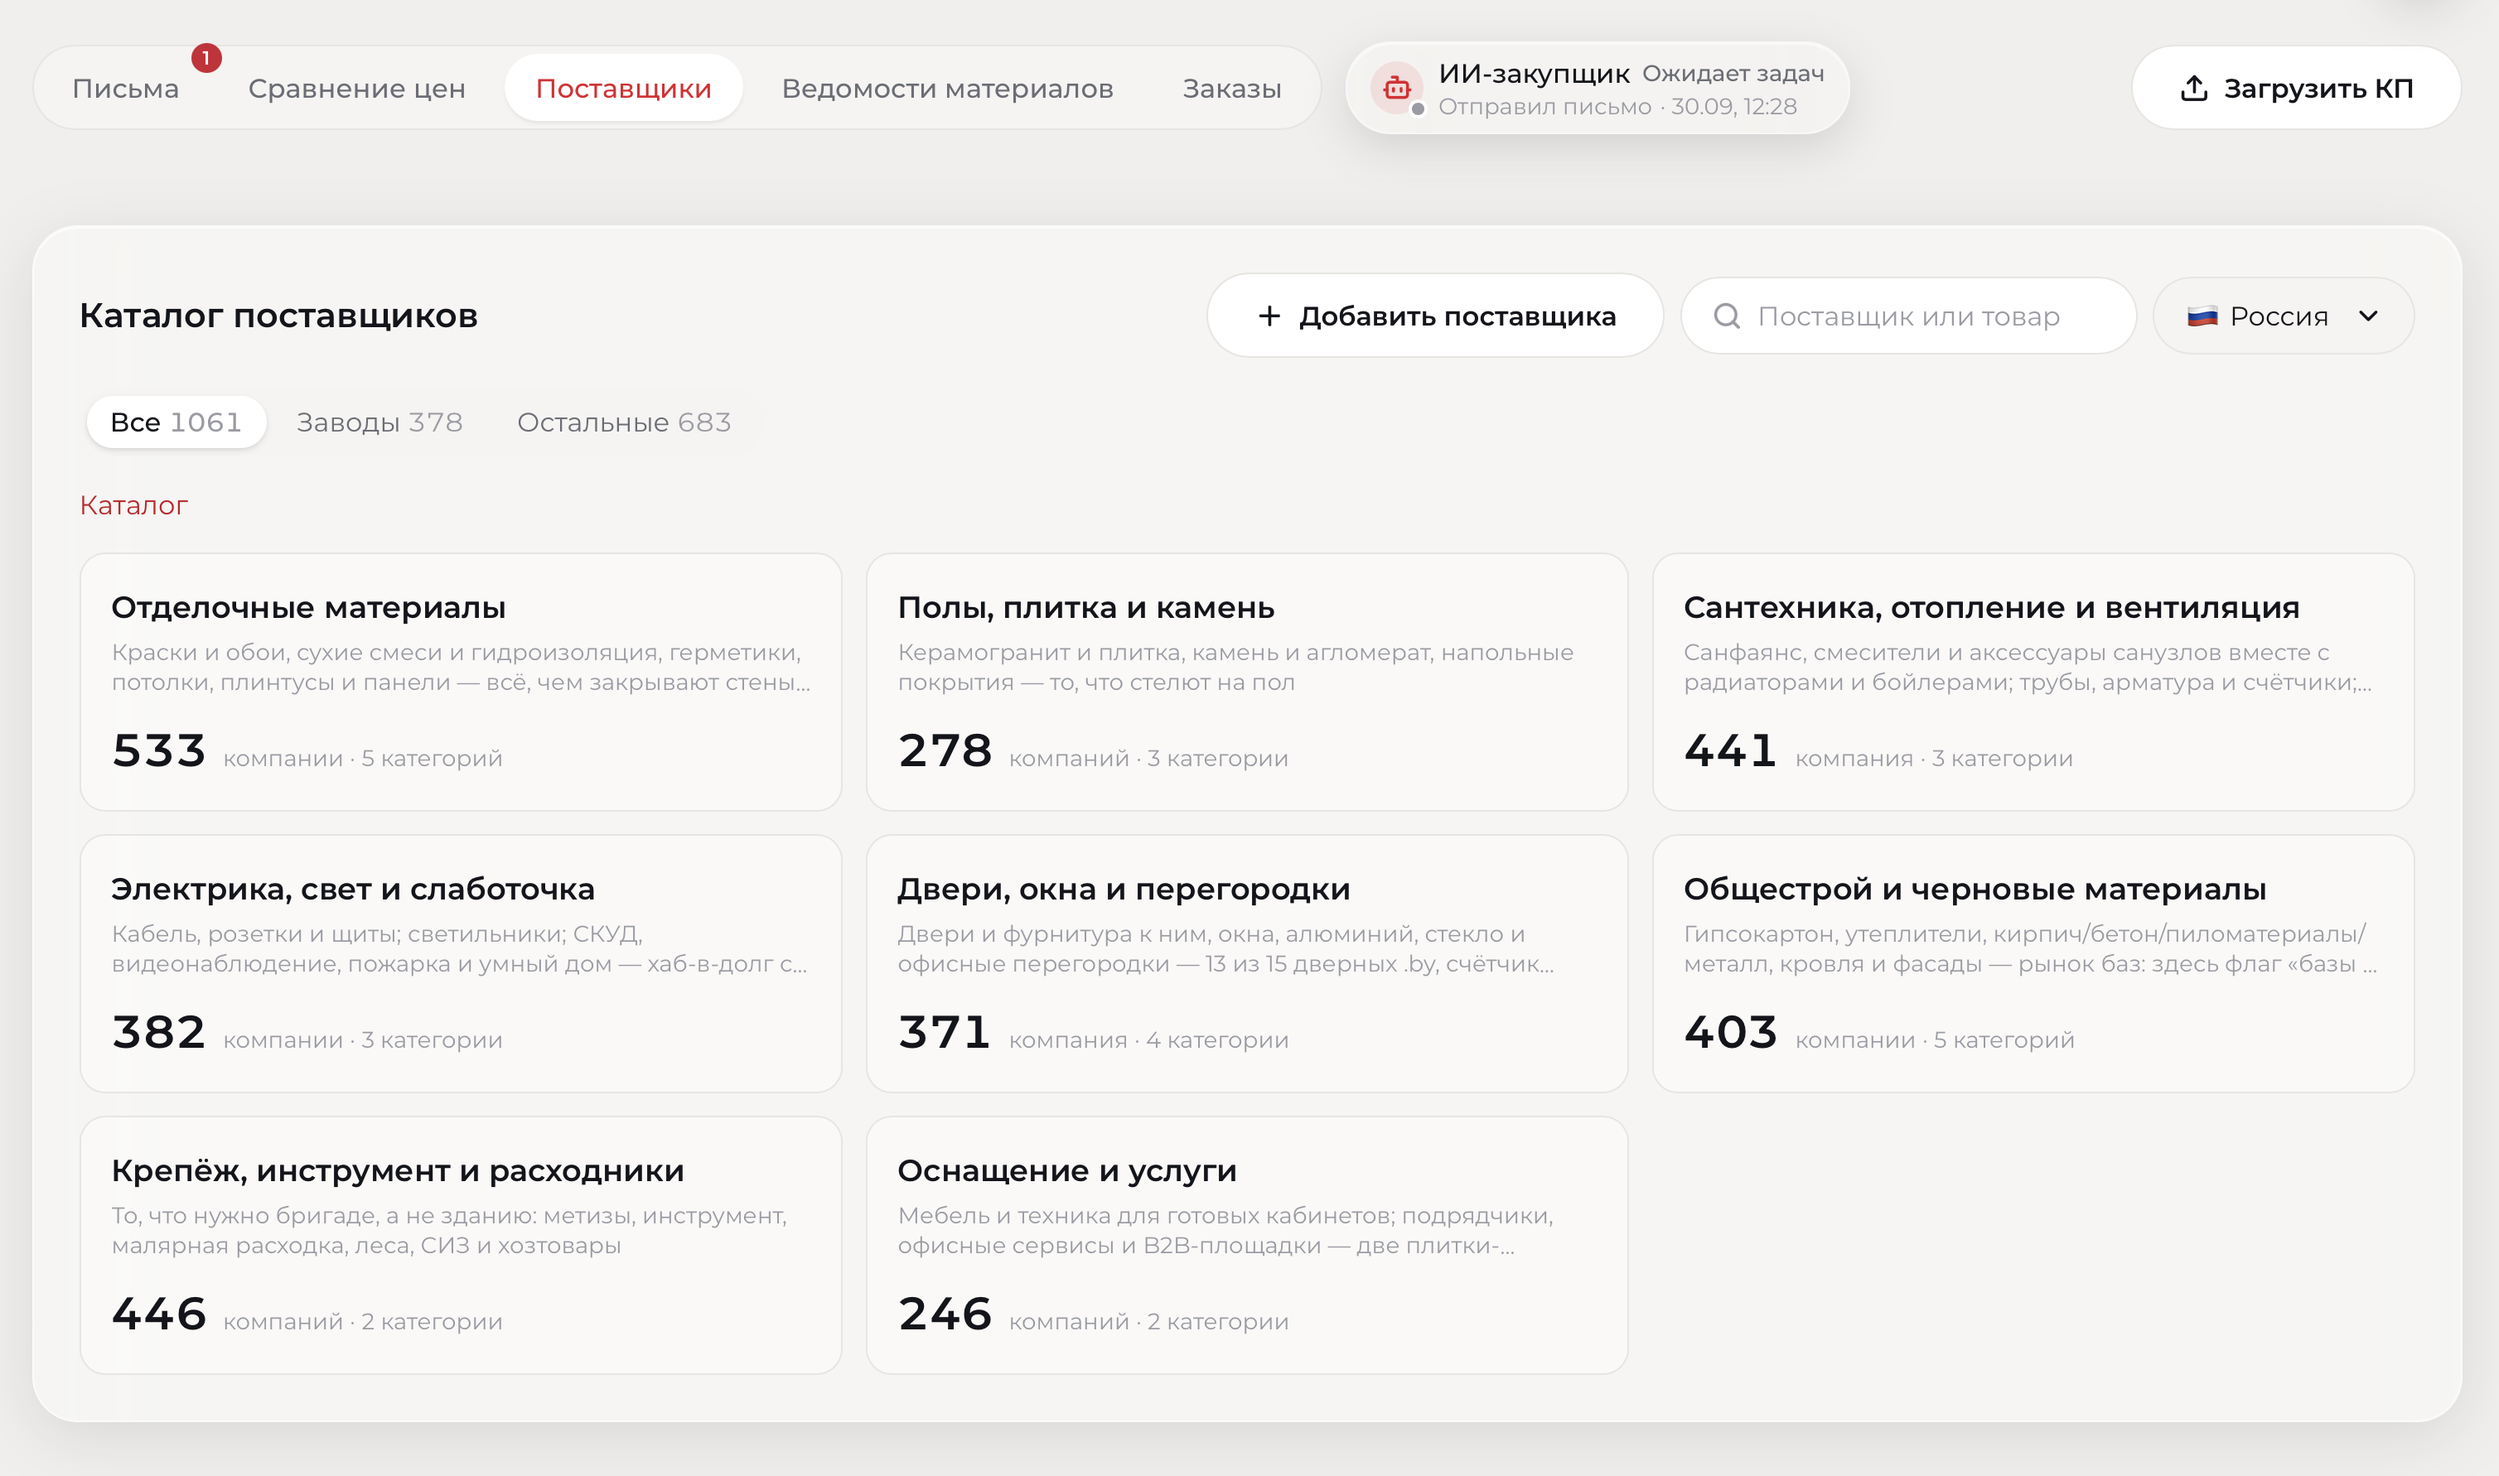
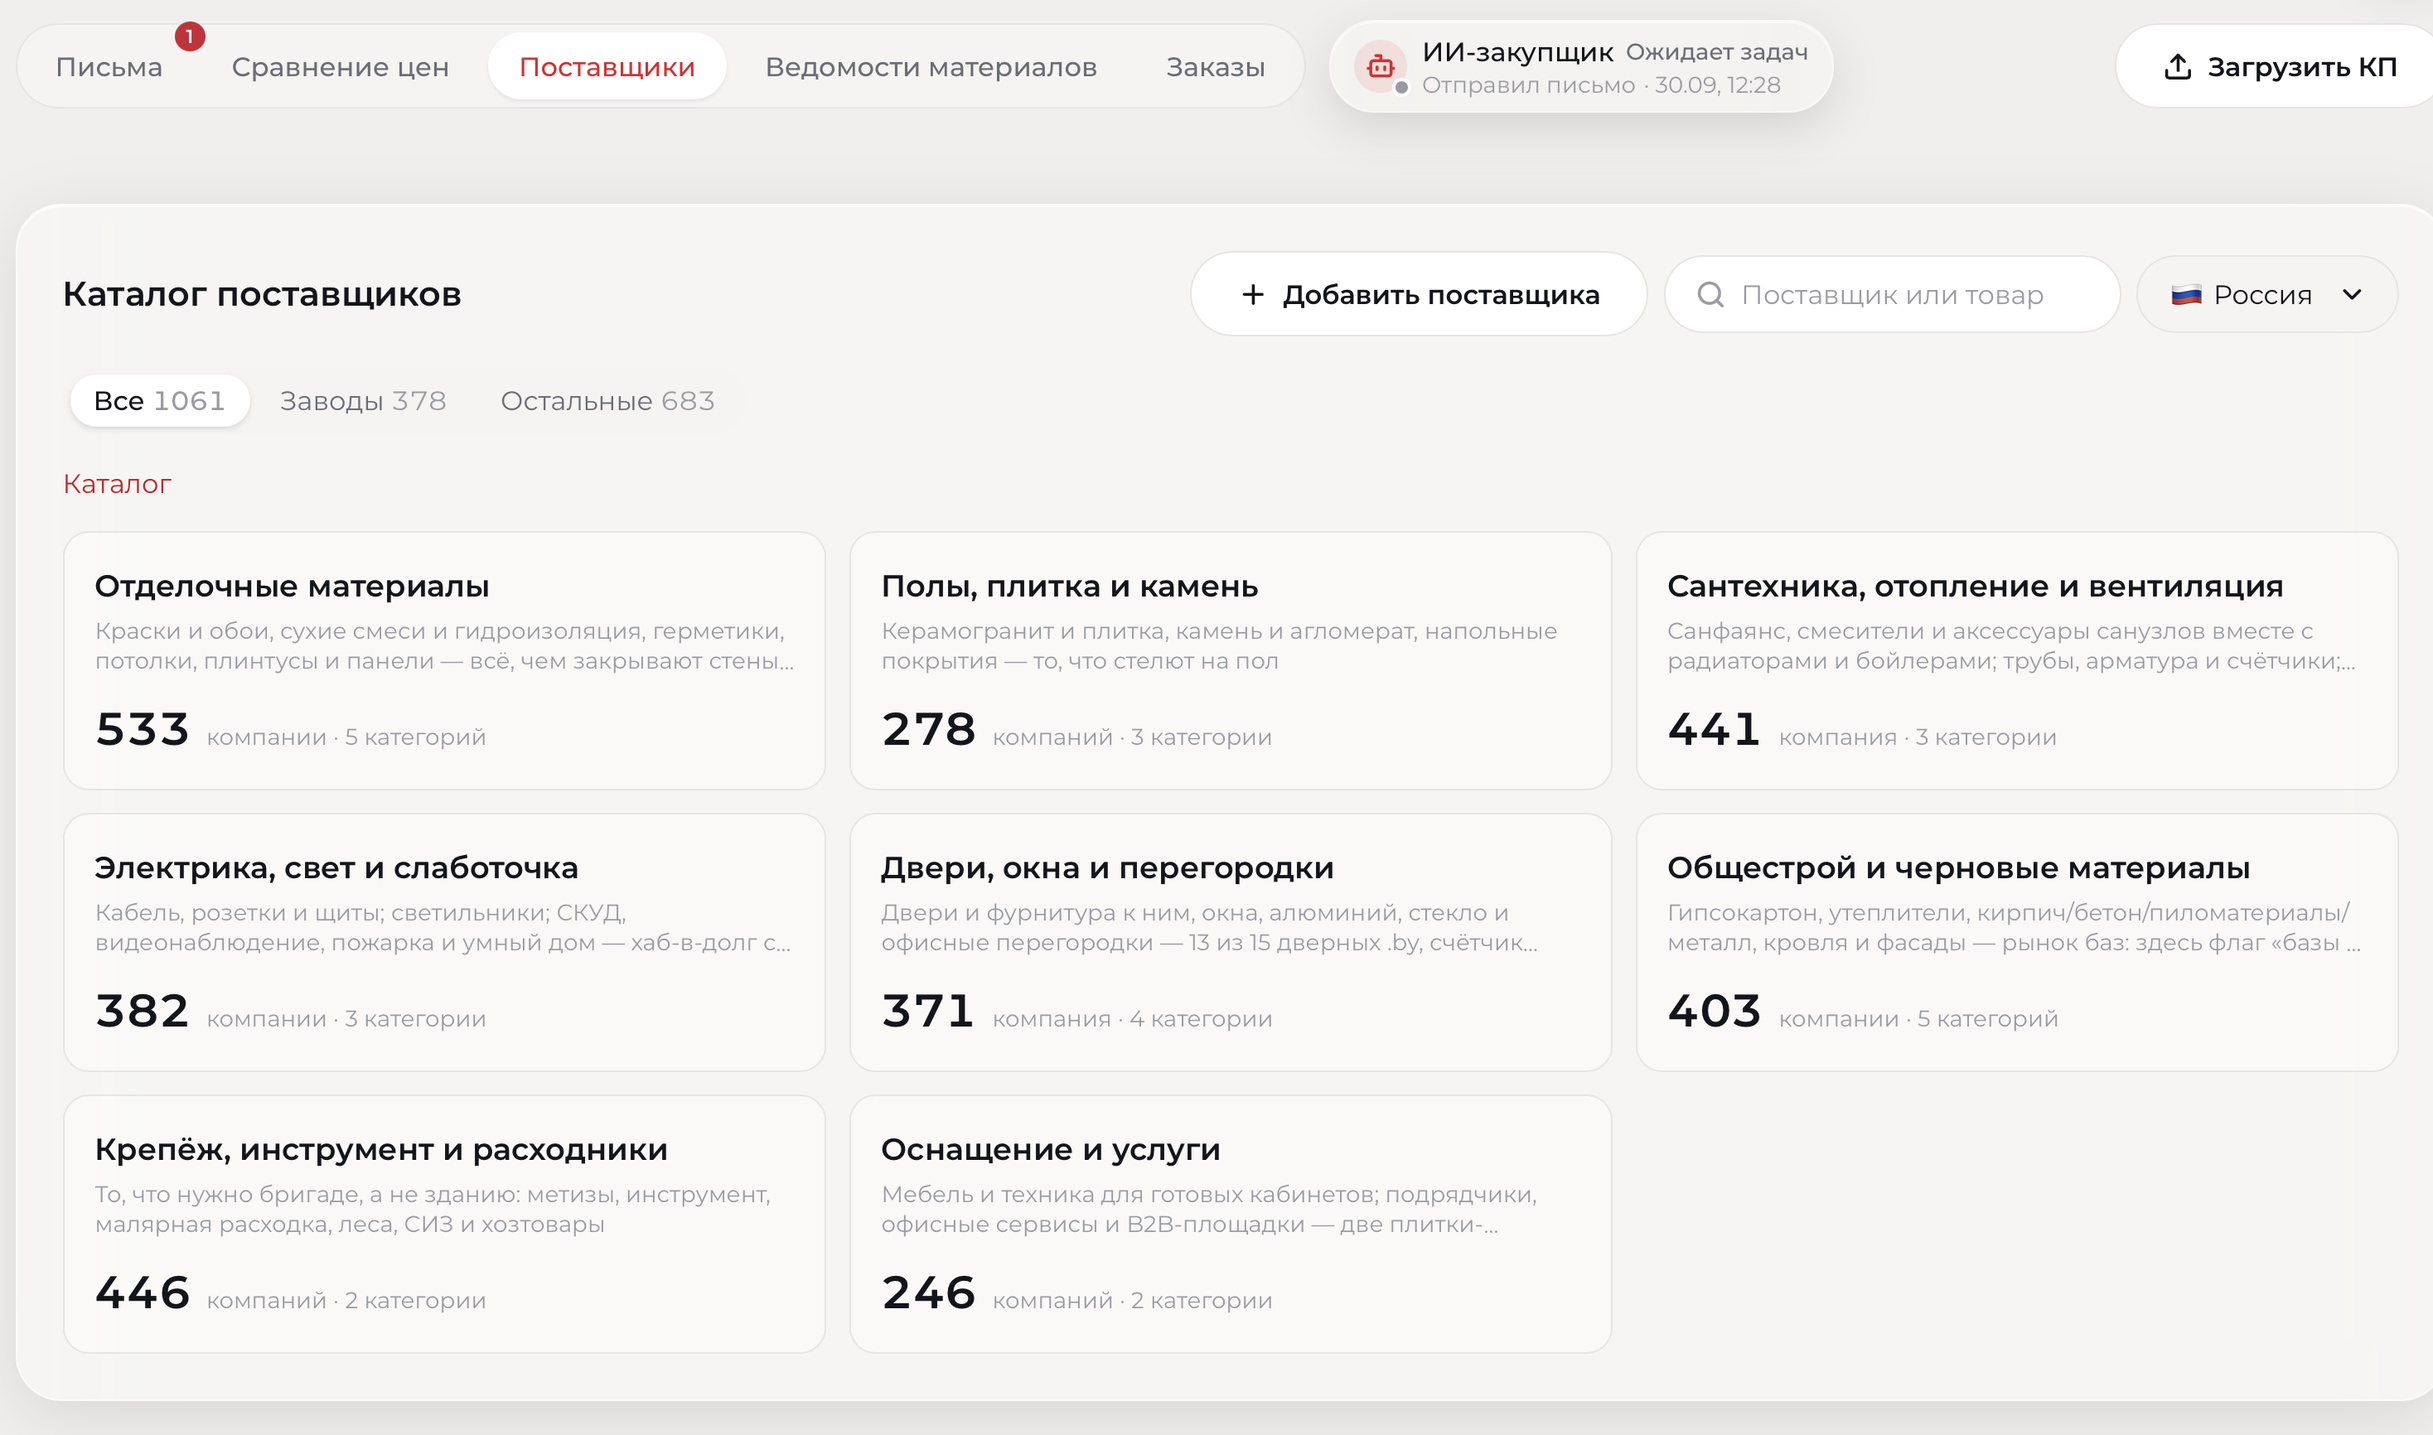
docs: обложка презы — полный скрин, без карточек и домена
Скрин каталога без обрезки (object-fit: contain), убраны блоки
плюсов и ссылка redevelopment.pro в футере.

diff --git a/docs/procurement-module-presentation.html b/docs/procurement-module-presentation.html
@@ -173,12 +173,12 @@
     }
 
     .cover h1 {
-      font-size: 28px;
+      font-size: 32px;
       max-width: none;
       font-weight: 700;
       letter-spacing: -0.02em;
       line-height: 1.15;
-      margin-bottom: 4mm;
+      margin-bottom: 6mm;
     }
 
     .cover .lede {
@@ -191,20 +191,20 @@
 
     .cover-bullets {
       list-style: none;
-      margin: 0 0 5.5mm;
+      margin: 0 0 6mm;
       padding: 0;
       max-width: 118mm;
       display: flex;
       flex-direction: column;
-      gap: 2.2mm;
+      gap: 3mm;
     }
 
     .cover-bullets li {
       position: relative;
-      padding-left: 5mm;
-      font-size: 12.5px;
+      padding-left: 5.5mm;
+      font-size: 13.5px;
       font-weight: 500;
-      line-height: 1.4;
+      line-height: 1.45;
       color: var(--ink);
     }
 
@@ -224,49 +224,19 @@
     }
 
     .cover-ai-note {
-      margin: -2mm 0 5mm;
+      margin: 0;
       max-width: 118mm;
-      font-size: 12px;
+      font-size: 13px;
       font-weight: 600;
       color: var(--ink-muted);
     }
 
     .cover-main {
       display: grid;
-      grid-template-columns: 1fr 1.05fr;
-      gap: 9mm;
-      align-items: stretch;
+      grid-template-columns: 0.92fr 1.18fr;
+      gap: 8mm;
+      align-items: center;
       min-height: 0;
-    }
-
-    .plus-stack {
-      display: flex;
-      flex-direction: column;
-      gap: 3mm;
-    }
-
-    .plus {
-      background: rgba(255, 255, 255, 0.78);
-      border: 1px solid rgba(255, 255, 255, 0.9);
-      border-radius: 14px;
-      padding: 3.5mm 5mm;
-      box-shadow: 0 8px 24px rgba(20, 21, 26, 0.05), inset 0 1px 0 rgba(255, 255, 255, 0.8);
-    }
-
-    .plus .title {
-      font-size: 15px;
-      font-weight: 700;
-      letter-spacing: -0.015em;
-      line-height: 1.25;
-      margin: 0 0 1mm;
-    }
-
-    .plus .hint {
-      margin: 0;
-      font-size: 12px;
-      color: var(--ink-muted);
-      font-weight: 500;
-      line-height: 1.35;
     }
 
     .cover-shot {
@@ -274,18 +244,23 @@
       flex-direction: column;
       min-height: 0;
       height: 100%;
+      justify-content: center;
     }
 
     .cover-shot .shot-frame {
-      flex: 1;
+      flex: 0 1 auto;
+      width: 100%;
+      height: auto;
+      max-height: 132mm;
       min-height: 0;
-      max-height: none;
-      height: 100%;
     }
 
     .cover-shot .shot-frame img {
-      object-fit: cover;
-      object-position: left top;
+      width: 100%;
+      height: auto;
+      max-height: 132mm;
+      object-fit: contain;
+      object-position: center top;
     }
 
     .shot-frame {
@@ -322,7 +297,15 @@
       letter-spacing: 0.02em;
     }
 
-    .cover .shot-frame { height: 100%; min-height: 95mm; }
+    .cover .shot-frame {
+      height: auto;
+      min-height: 0;
+      background: #f5f4f2;
+    }
+
+    .cover .footer-line {
+      justify-content: flex-start;
+    }
 
     .footer-line {
       display: flex;
@@ -600,17 +583,6 @@
             <li>Заказать поставку материалов на&nbsp;объект</li>
           </ul>
           <p class="cover-ai-note">С применением ИИ на всех этапах</p>
-
-          <div class="plus-stack">
-            <div class="plus">
-              <div class="title">Лучшая проработка рынка</div>
-              <p class="hint">Дилеры и заводы по всем категориям. Запрос цен — сразу по всей релевантной базе, а не по трём знакомым.</p>
-            </div>
-            <div class="plus">
-              <div class="title">Сокращение времени в разы</div>
-              <p class="hint">Рассылку, разбор счетов и типовую переписку закрывает система. Закупщику остаются решения.</p>
-            </div>
-          </div>
         </div>
 
         <div class="cover-shot">
@@ -623,7 +595,6 @@
 
       <div class="footer-line">
         <span>Внутренний продукт · редевелопмент коммерческой недвижимости</span>
-        <span>redevelopment.pro</span>
       </div>
     </section>
 
